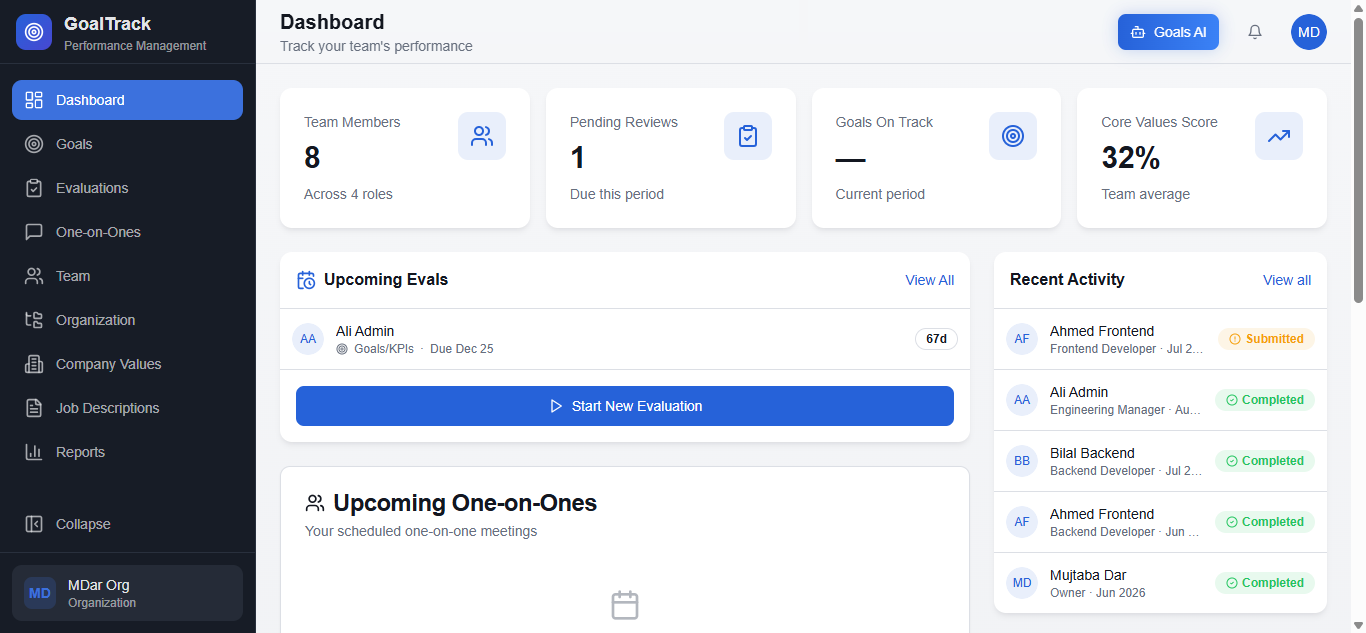
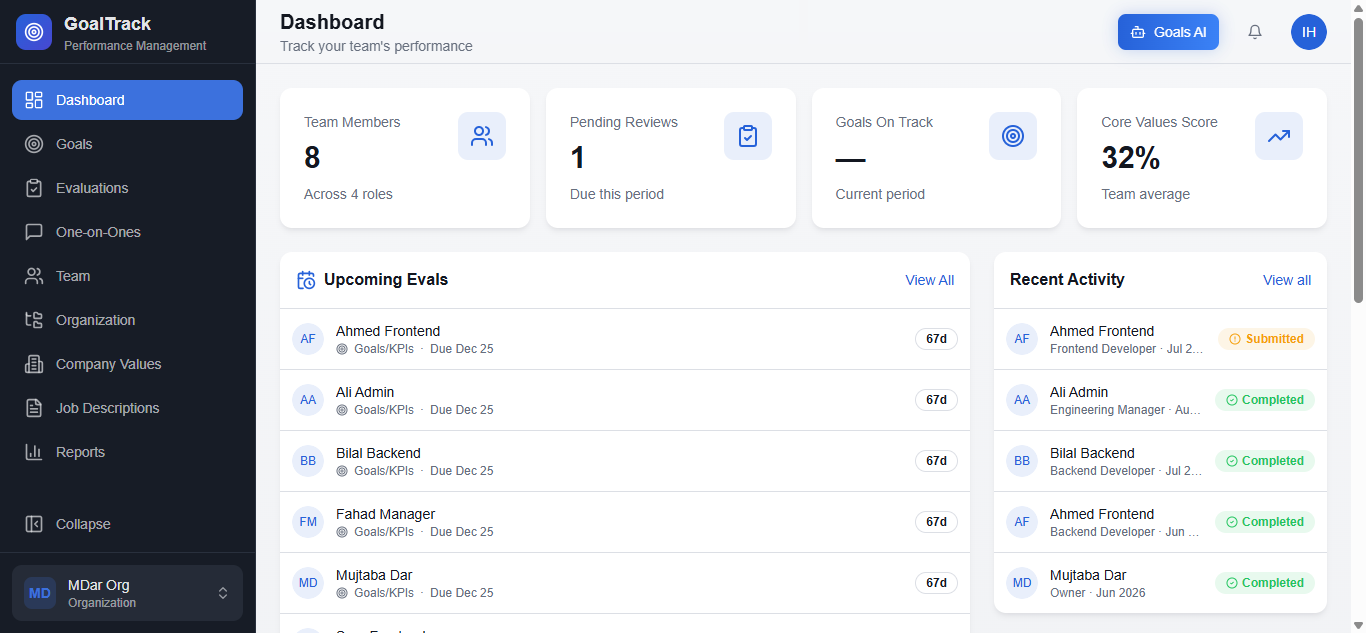
Update page title, footer and experience details
- Set page title to 'Mujtaba Dar | Full Stack Engineer in Lahore'
- Remove 'Crafted with React & TypeScript' line from footer
- Show October 2025 - October 2026 in the experience timeline date
- Make the About ID badge generic (no company or dates)
- Add explicit current flag for experience entries

diff --git a/src/components/Badge.tsx b/src/components/Badge.tsx
@@ -161,7 +161,7 @@ const Badge = () => {
     <div className="badge-column">
       <div className="badge-scene" ref={sceneRef}>
         <div className="lanyard" aria-hidden="true">
-          {(current.company ?? profile.shortName).toUpperCase()} · {profile.role.toUpperCase()}
+          {profile.shortName.toUpperCase()} · {profile.role.toUpperCase()}
         </div>
         <svg className="badge-cord" viewBox="0 0 320 390" aria-hidden="true">
           <line ref={cordRef} x1="160" y1="0" x2="160" y2="48" stroke="currentColor" strokeWidth="3" />
@@ -202,8 +202,8 @@ const Badge = () => {
             <span className="sr-only">{flipped ? 'Flip to badge front' : 'Flip to career stats'}</span>
             <span className="badge-face badge-front" aria-hidden={flipped}>
               <span className="badge-top">
-                <b>{(current.company ?? profile.shortName).toUpperCase()}</b>
-                <small>DEVELOPMENT</small>
+                <b>FULL STACK</b>
+                <small>DEVELOPER</small>
               </span>
               <span className="badge-photo">
                 <img src={profile.photo} alt="" width={170} height={150} loading="lazy" draggable={false} />

diff --git a/src/data/portfolio.ts b/src/data/portfolio.ts
@@ -29,13 +29,15 @@ export interface ExperienceItem {
   title: string
   company?: string
   description?: string
+  current?: boolean
 }
 
 export const experiences: ExperienceItem[] = [
   {
-    period: 'October 2025 - Present',
+    period: 'October 2025 - October 2026',
     title: 'Full Stack Developer',
     company: 'Codexiom',
+    current: true,
   },
   {
     period: 'June 2024 - September 2024',
@@ -46,6 +48,7 @@ export const experiences: ExperienceItem[] = [
     period: 'October 2022 - Present',
     title: 'Self Employed',
     description: 'Code and build something in everyday',
+    current: true,
   },
 ]
 

diff --git a/src/App.tsx b/src/App.tsx
@@ -18,7 +18,7 @@ const Home = () => {
   // Coming back from a project page lands on "/#projects"; jump to that section
   // once the page (and its pinned scroll triggers) has laid out.
   useEffect(() => {
-    document.title = 'Mujtaba Dar Portfolio'
+    document.title = 'Mujtaba Dar | Full Stack Engineer in Lahore'
     if (!hash) return
     const frame = requestAnimationFrame(() =>
       document.getElementById(hash.slice(1))?.scrollIntoView({ behavior: 'instant' }),

diff --git a/index.html b/index.html
@@ -25,7 +25,7 @@
     <link rel="preconnect" href="https://fonts.googleapis.com" />
     <link rel="preconnect" href="https://fonts.gstatic.com" crossorigin />
     <link href="https://fonts.googleapis.com/css2?family=Space+Grotesk:wght@400;500;700&display=swap" rel="stylesheet" />
-    <title>Mujtaba Dar Portfolio</title>
+    <title>Mujtaba Dar | Full Stack Engineer in Lahore</title>
   </head>
   <body>
     <div id="root"></div>

diff --git a/src/components/Experience.tsx b/src/components/Experience.tsx
@@ -26,7 +26,7 @@ const Experience = () => (
         <i className="timeline-draw" />
       </div>
       {experiences.map((exp) => {
-        const present = /present/i.test(exp.period)
+        const present = exp.current ?? /present/i.test(exp.period)
         return (
           <article className="timeline-item" data-reveal key={exp.period + exp.title}>
             <div className="timeline-date">

diff --git a/src/index.css b/src/index.css
@@ -2258,10 +2258,6 @@ dd {
   display: flex;
 }
 
-.site-footer > span:nth-of-type(2) {
-  letter-spacing: 1.4px;
-  font-size: 7px;
-}
 
 .site-footer .monogram {
   width: 37px;
@@ -3004,11 +3000,6 @@ dd {
     font-size: 9px;
   }
 
-  .site-footer > span:nth-of-type(2) {
-    order: 5;
-    width: 100%;
-    font-size: 6px;
-  }
 }
 
 @media (max-width: 359px) {

diff --git a/src/components/Footer.tsx b/src/components/Footer.tsx
@@ -8,7 +8,6 @@ const Footer = () => (
     <span>
       © {new Date().getFullYear()} {profile.shortName}
     </span>
-    <span>CRAFTED WITH REACT &amp; TYPESCRIPT.</span>
     <a href="#home">Back to top ↑</a>
   </footer>
 )
